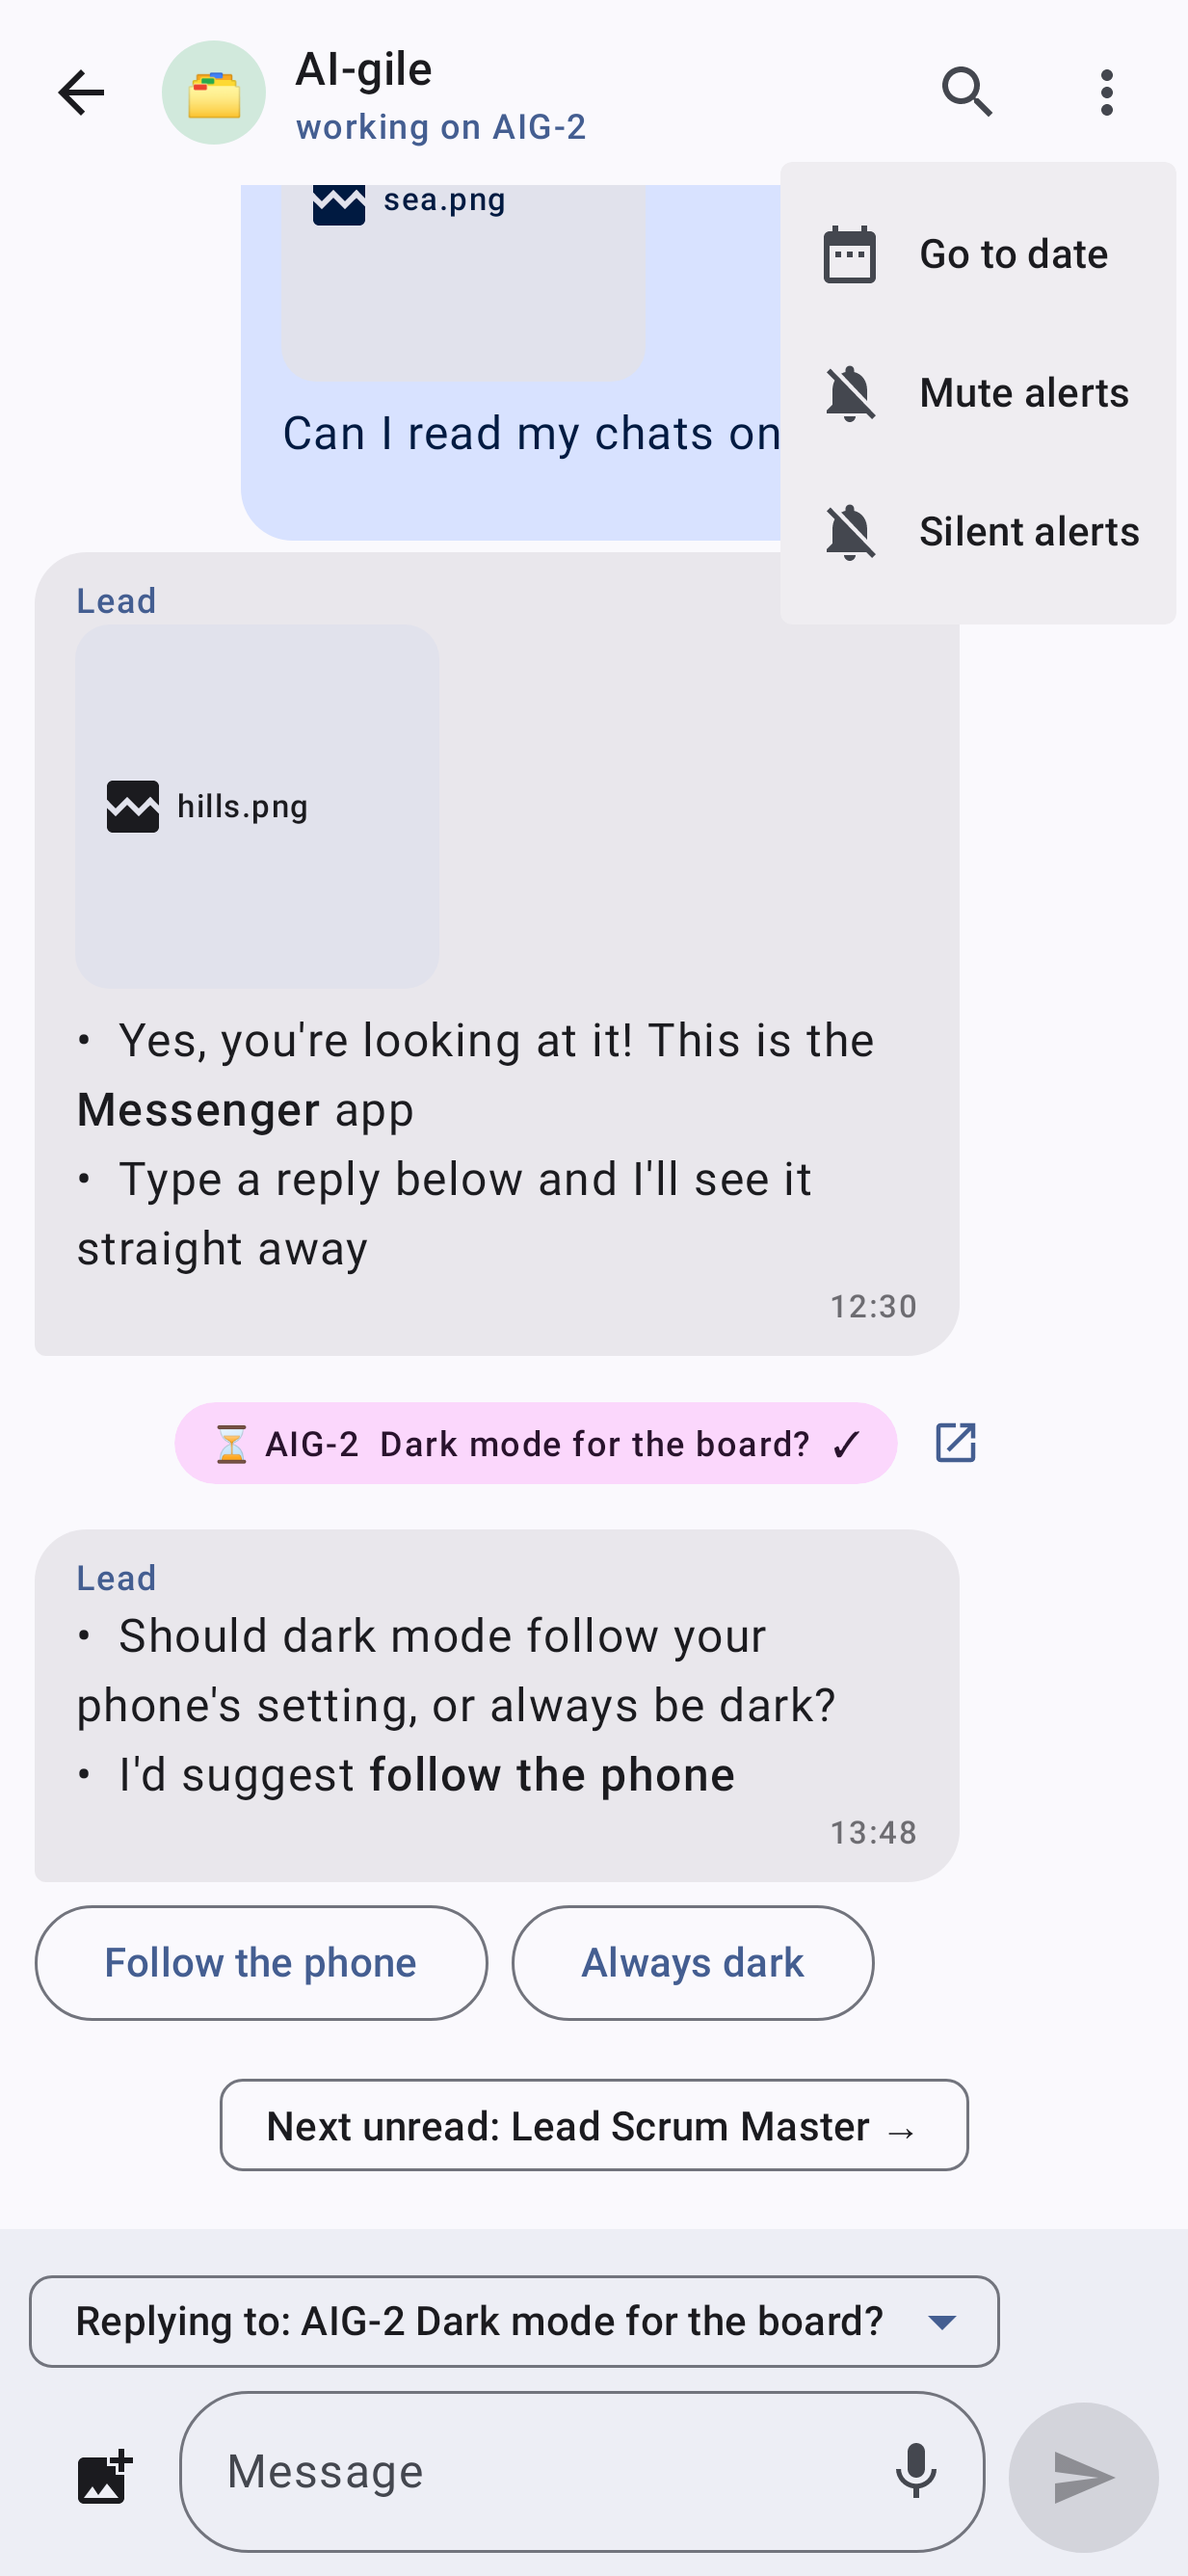
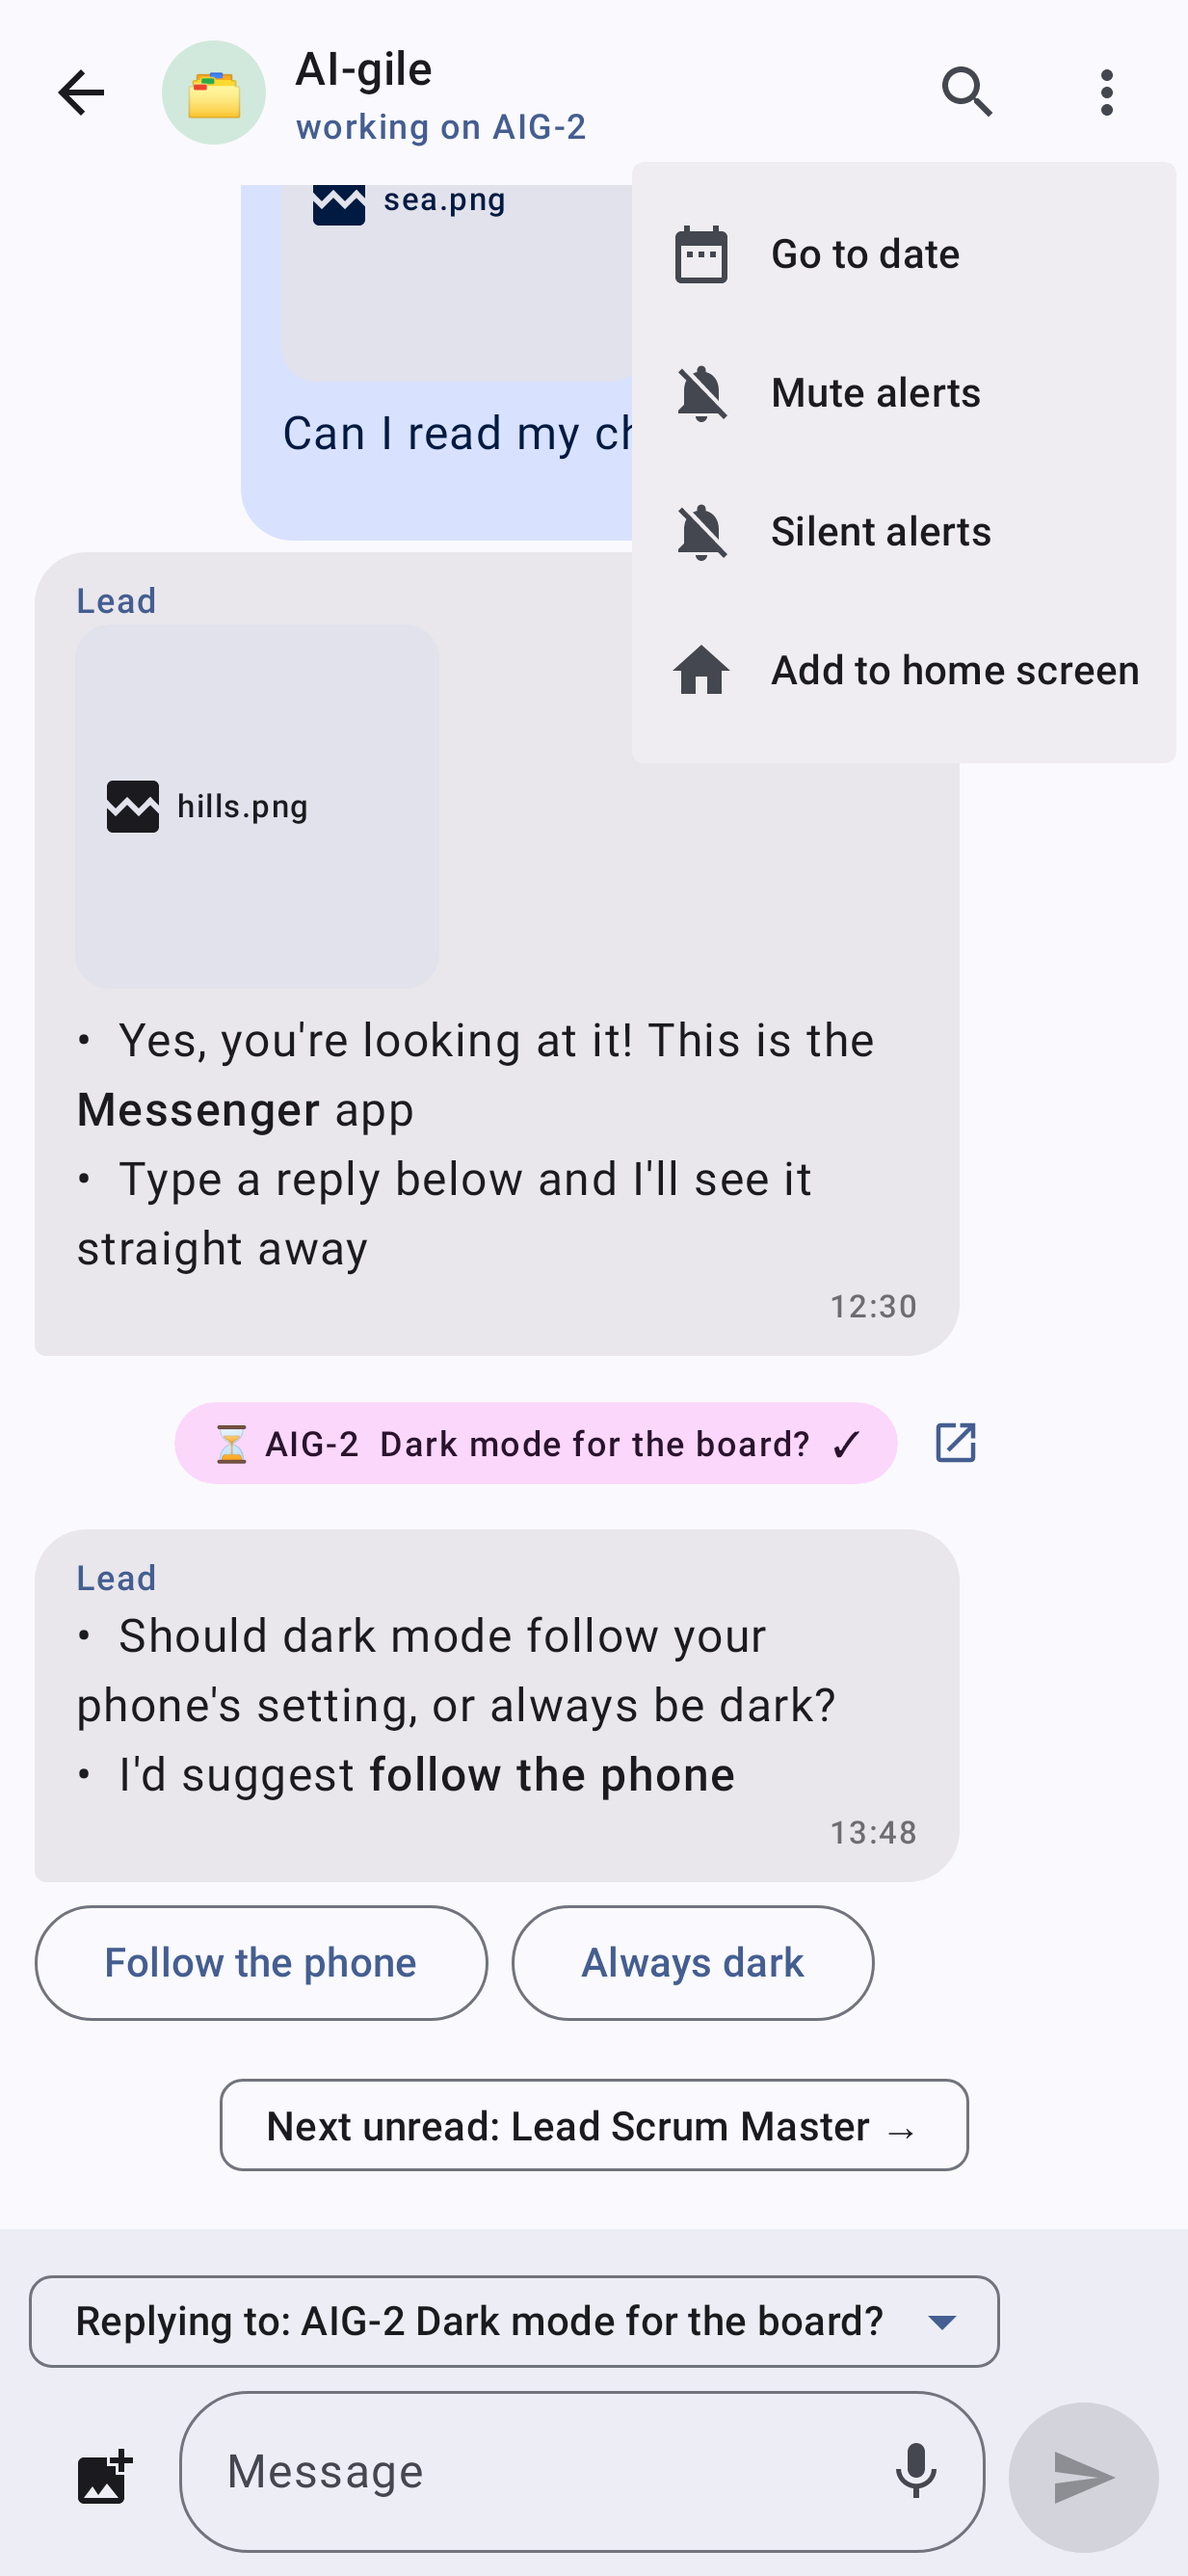
Chats: Add to home screen from the chat menu and the chats list (AII-368, AII-376)

diff --git a/app/src/main/java/com/smizflark/aigile/messenger/ui/ChatRow.kt b/app/src/main/java/com/smizflark/aigile/messenger/ui/ChatRow.kt
@@ -18,6 +18,7 @@ import androidx.compose.material.icons.Icons
 import androidx.compose.material.icons.filled.Close
 import androidx.compose.material.icons.filled.ContentCopy
 import androidx.compose.material.icons.filled.DoneAll
+import androidx.compose.material.icons.filled.Home
 import androidx.compose.material.icons.filled.Notifications
 import androidx.compose.material.icons.filled.NotificationsActive
 import androidx.compose.material.icons.filled.NotificationsOff
@@ -65,7 +66,7 @@ import com.smizflark.aigile.messenger.data.swipeAction
 @OptIn(ExperimentalFoundationApi::class)
 @Composable
 internal fun ChatRow(c: ChatRef, repo: Repo, fresh: Boolean, unread: Int, pinned: Boolean, muted: Boolean, reminded: Boolean, unsent: List<Pending>, draft: String?, closed: Boolean,
-                    onRead: () -> Unit, onUnread: () -> Unit, onMute: (Boolean) -> Unit, onPin: () -> Unit, onClose: (Boolean) -> Unit, onClick: () -> Unit) {
+                    onRead: () -> Unit, onUnread: () -> Unit, onMute: (Boolean) -> Unit, onPin: () -> Unit, onClose: (Boolean) -> Unit, onAddHome: () -> Unit = {}, onClick: () -> Unit) {
     var menu by remember { mutableStateOf(false) }
     // Swipes do what Settings says (AII-216; starting: right = mark read, left = mute/unmute, AII-61). The row always springs back.
     val mutedNow by rememberUpdatedState(muted)
@@ -127,6 +128,9 @@ internal fun ChatRow(c: ChatRef, repo: Repo, fresh: Boolean, unread: Int, pinned
                     menu = false
                     remindHour()
                 }, modifier = Modifier.testTag("menu-remind"))
+            // AII-376: pin a shortcut to this chat on the home screen.
+            DropdownMenuItem(text = { Text(stringResource(R.string.add_to_home)) }, leadingIcon = { Icon(Icons.Default.Home, null) },
+                onClick = { menu = false; onAddHome() }, modifier = Modifier.testTag("menu-add-home"))
             // AII-249: Copy name.
             val clipboard = androidx.compose.ui.platform.LocalClipboardManager.current
             DropdownMenuItem(text = { Text(stringResource(R.string.copy_name)) }, leadingIcon = { Icon(Icons.Default.ContentCopy, null) },

diff --git a/app/src/main/java/com/smizflark/aigile/messenger/ui/ChatTopBar.kt b/app/src/main/java/com/smizflark/aigile/messenger/ui/ChatTopBar.kt
@@ -11,6 +11,7 @@ import androidx.compose.material.icons.filled.MoreVert
 import androidx.compose.material.icons.filled.DateRange
 import androidx.compose.material.icons.filled.Notifications
 import androidx.compose.material.icons.filled.NotificationsOff
+import androidx.compose.material.icons.filled.Home
 import androidx.compose.material.icons.filled.Search
 import androidx.compose.material3.DropdownMenu
 import androidx.compose.material3.DropdownMenuItem
@@ -49,7 +50,7 @@ import com.smizflark.aigile.messenger.data.Repo
 @Composable
 internal fun ChatTopBar(
     ref: ChatRef, repo: Repo, focus: String?, focusBubble: Bubble?, working: Boolean, workingOn: String?, muted: Boolean,
-    onBack: () -> Unit, onDetails: () -> Unit, onFind: () -> Unit, onMute: () -> Unit, onGoToDate: () -> Unit = {}, onMyLast: () -> Unit = {}, onOpenCard: (String) -> Unit = {}, silent: Boolean = false, onSilent: () -> Unit = {},
+    onBack: () -> Unit, onDetails: () -> Unit, onFind: () -> Unit, onMute: () -> Unit, onGoToDate: () -> Unit = {}, onMyLast: () -> Unit = {}, onOpenCard: (String) -> Unit = {}, silent: Boolean = false, onSilent: () -> Unit = {}, onAddHome: () -> Unit = {},
 ) {
     TopAppBar(
         navigationIcon = { IconButton(onClick = onBack) { Icon(Icons.AutoMirrored.Filled.ArrowBack, stringResource(R.string.back)) } },
@@ -91,6 +92,12 @@ internal fun ChatTopBar(
                     leadingIcon = { Icon(Icons.Default.NotificationsOff, null) },
                     onClick = { onSilent(); menu = false },
                     modifier = Modifier.testTag("silent"),
+                )
+                DropdownMenuItem(
+                    text = { Text(stringResource(R.string.add_to_home)) },
+                    leadingIcon = { Icon(Icons.Default.Home, null) },
+                    onClick = { menu = false; onAddHome() },
+                    modifier = Modifier.testTag("add-home"),
                 )
             }
         },

diff --git a/app/src/main/java/com/smizflark/aigile/messenger/ui/ChatScreen.kt b/app/src/main/java/com/smizflark/aigile/messenger/ui/ChatScreen.kt
@@ -105,7 +105,8 @@ fun ChatScreen(repo: Repo, ref: ChatRef, onBack: () -> Unit, focus: String? = nu
     val view = LocalView.current
     fun tick() = Appearance.buzz && view.performHapticFeedback(if (Build.VERSION.SDK_INT >= 30) HapticFeedbackConstants.CONFIRM else HapticFeedbackConstants.VIRTUAL_KEY)
     val owner = repo.store.owner.ifBlank { "You" }
-    val res = LocalContext.current.resources
+    val homeCtx = LocalContext.current
+    val res = homeCtx.resources
 
     // Keep the half-typed reply (AII-42): saved a moment after typing stops, and on the way out.
     LaunchedEffect(text) { delay(400); repo.store.saveDraft(ref.key, text) }
@@ -322,6 +323,7 @@ fun ChatScreen(repo: Repo, ref: ChatRef, onBack: () -> Unit, focus: String? = nu
             ChatTopBar(ref, repo, focus, focusBubble, working, workingOn, muted, onBack = onBack, onDetails = { details = true },
                 onFind = { finding = true }, onMute = { if (muted) { muted = false; repo.store.setMuted(ref.key, false) } else muteAsk = true },
                 onGoToDate = { goToDate = true }, onMyLast = { jumpToMine() }, onOpenCard = onOpenCard, silent = silent,
+                onAddHome = { if (!com.smizflark.aigile.messenger.data.HomeShortcut.pin(homeCtx, ref.key, ref.name)) Toast.makeText(homeCtx, homeCtx.getString(R.string.add_to_home_unsupported), Toast.LENGTH_SHORT).show() },
                 onSilent = { repo.store.silent = com.smizflark.aigile.messenger.data.Silent.toggle(repo.store.silent, ref.key); silent = ref.key in repo.store.silent })
         },
     ) { pad ->

diff --git a/app/src/main/java/com/smizflark/aigile/messenger/data/HomeShortcut.kt b/app/src/main/java/com/smizflark/aigile/messenger/data/HomeShortcut.kt
@@ -1,0 +1,28 @@
+package com.smizflark.aigile.messenger.data
+
+import android.content.Context
+import android.content.Intent
+import androidx.core.content.pm.ShortcutInfoCompat
+import androidx.core.content.pm.ShortcutManagerCompat
+import androidx.core.graphics.drawable.IconCompat
+import com.smizflark.aigile.messenger.MainActivity
+import com.smizflark.aigile.messenger.R
+import com.smizflark.aigile.messenger.work.CheckWorker
+
+/** Add to home screen (AII-368, AII-376): a launcher shortcut that opens the app straight into one chat. */
+object HomeShortcut {
+    /** One shortcut per chat; pinning the same chat again just updates it. */
+    fun id(chat: String) = "home:$chat"
+
+    /** The same route an alert uses (MainActivity reads CheckWorker.EXTRA_CHAT). */
+    fun intent(context: Context, chat: String): Intent =
+        Intent(Intent.ACTION_VIEW).setClass(context, MainActivity::class.java).putExtra(CheckWorker.EXTRA_CHAT, chat)
+
+    /** Asks the launcher to pin it; false when the launcher can't pin shortcuts. */
+    fun pin(context: Context, chat: String, name: String): Boolean {
+        if (!ShortcutManagerCompat.isRequestPinShortcutSupported(context)) return false
+        val info = ShortcutInfoCompat.Builder(context, id(chat)).setShortLabel(name.take(24)).setLongLabel(name)
+            .setIcon(IconCompat.createWithResource(context, R.mipmap.ic_launcher)).setIntent(intent(context, chat)).build()
+        return runCatching { ShortcutManagerCompat.requestPinShortcut(context, info, null) }.getOrDefault(false)
+    }
+}

diff --git a/app/src/test/java/com/smizflark/aigile/messenger/HomeShortcutTest.kt b/app/src/test/java/com/smizflark/aigile/messenger/HomeShortcutTest.kt
@@ -1,0 +1,29 @@
+package com.smizflark.aigile.messenger
+
+import android.content.Intent
+import androidx.test.core.app.ApplicationProvider
+import com.smizflark.aigile.messenger.data.HomeShortcut
+import com.smizflark.aigile.messenger.work.CheckWorker
+import org.junit.Assert.assertEquals
+import org.junit.Assert.assertNotEquals
+import org.junit.Test
+import org.junit.runner.RunWith
+import org.robolectric.RobolectricTestRunner
+import org.robolectric.annotation.Config
+
+@RunWith(RobolectricTestRunner::class)
+@Config(sdk = [34])
+class HomeShortcutTest {
+    @Test fun idIsOnePerChat() {
+        assertEquals("home:lead-1", HomeShortcut.id("lead-1"))
+        assertNotEquals(HomeShortcut.id("a"), HomeShortcut.id("b"))
+    }
+
+    @Test fun intentOpensTheChatLikeAnAlert() {
+        val ctx = ApplicationProvider.getApplicationContext<android.content.Context>()
+        val i = HomeShortcut.intent(ctx, "lead-1")
+        assertEquals(Intent.ACTION_VIEW, i.action)
+        assertEquals("lead-1", i.getStringExtra(CheckWorker.EXTRA_CHAT))
+        assertEquals(MainActivity::class.java.name, i.component?.className)
+    }
+}

diff --git a/app/src/main/java/com/smizflark/aigile/messenger/ui/ChatsScreen.kt b/app/src/main/java/com/smizflark/aigile/messenger/ui/ChatsScreen.kt
@@ -315,6 +315,7 @@ fun ChatsScreen(repo: Repo, onOpen: (ChatRef) -> Unit, onNew: () -> Unit, onSett
                     ChatRow(c, repo, News.fresh(c, seen[c.key]), unread[c.key] ?: 0, c.key in pinned, c.key in muted, c.key in reminded, unsent[c.key].orEmpty(), drafts[c.key], isShut,
                         onRead = { markRead(listOf(c)) }, onUnread = { markUnread(c) },
                         onMute = { on -> if (on) muteAsk = c else { repo.store.setMuted(c.key, false); muted = repo.store.muted() } },
+                        onAddHome = { if (!com.smizflark.aigile.messenger.data.HomeShortcut.pin(context, c.key, c.name)) scope.launch { snack.currentSnackbarData?.dismiss(); snack.showSnackbar(context.getString(R.string.add_to_home_unsupported)) } },
                         onPin = { pinned = togglePin(pinned, c.key); repo.store.pinned = pinned },
                         onClose = { shutIt -> scope.launch {
                             repo.setClosed(c, shutIt); closed = repo.store.closed()

diff --git a/app/src/test/java/com/smizflark/aigile/messenger/screens/ChatShotTest.kt b/app/src/test/java/com/smizflark/aigile/messenger/screens/ChatShotTest.kt
@@ -332,6 +332,15 @@ class ChatShotTest : ShotBase() {
         rule.waitForIdle()
         rule.onNodeWithText("Cancel").assertIsDisplayed()
     }
+    /** AII-368: the chat menu shows Add to home screen. */
+    @Test fun addToHomeMenuLight() {
+        prime(lead()); RuntimeEnvironment.setQualifiers("+notnight")
+        rule.setContent { MessengerTheme { ChatScreen(repo, lead(), onBack = {}) } }
+        rule.onNodeWithContentDescription("More").performClick()
+        rule.waitForIdle()
+        rule.onNodeWithTag("add-home").assertIsDisplayed()
+        com.github.takahirom.roborazzi.captureScreenRoboImage("../docs/shots/chat_add_to_home_menu_light.png")
+    }
     /** AII-121: hold a message, Share: the phone's share menu gets the message text. */
     @Test fun shareMessage() {
         prime(lead()); RuntimeEnvironment.setQualifiers("+notnight")

diff --git a/docs/CODEMAP.md b/docs/CODEMAP.md
@@ -16,6 +16,7 @@ Kotlin under `app/src/main/java/com/smizflark/aigile/messenger/` (paths below ar
 - data/Gif.kt: GIF links in a message (giphy, tenor, .gif) shown as moving pictures in the bubble, like the board (AII-188).
 - data/Drafts.kt: half-typed replies, one per chat.
 - data/GoToDate.kt: Go to date in a chat (AII-193): which day to land on, and the picker's range (dialog: ui/GoToDateDialog.kt, with a First message button that picks the range start, AII-231).
+- data/HomeShortcut.kt: Add to home screen (AII-368, AII-376): pins a launcher shortcut that opens a chat (same EXTRA_CHAT route as alerts); menu items in ui/ChatTopBar.kt and the ui/ChatRow.kt hold menu.
 - data/Filter.kt: the chips above the chats list.
 - data/Forward.kt: forwarding a message to another chat.
 - data/Mapper.kt: turns the board's answers into what the screens show.
